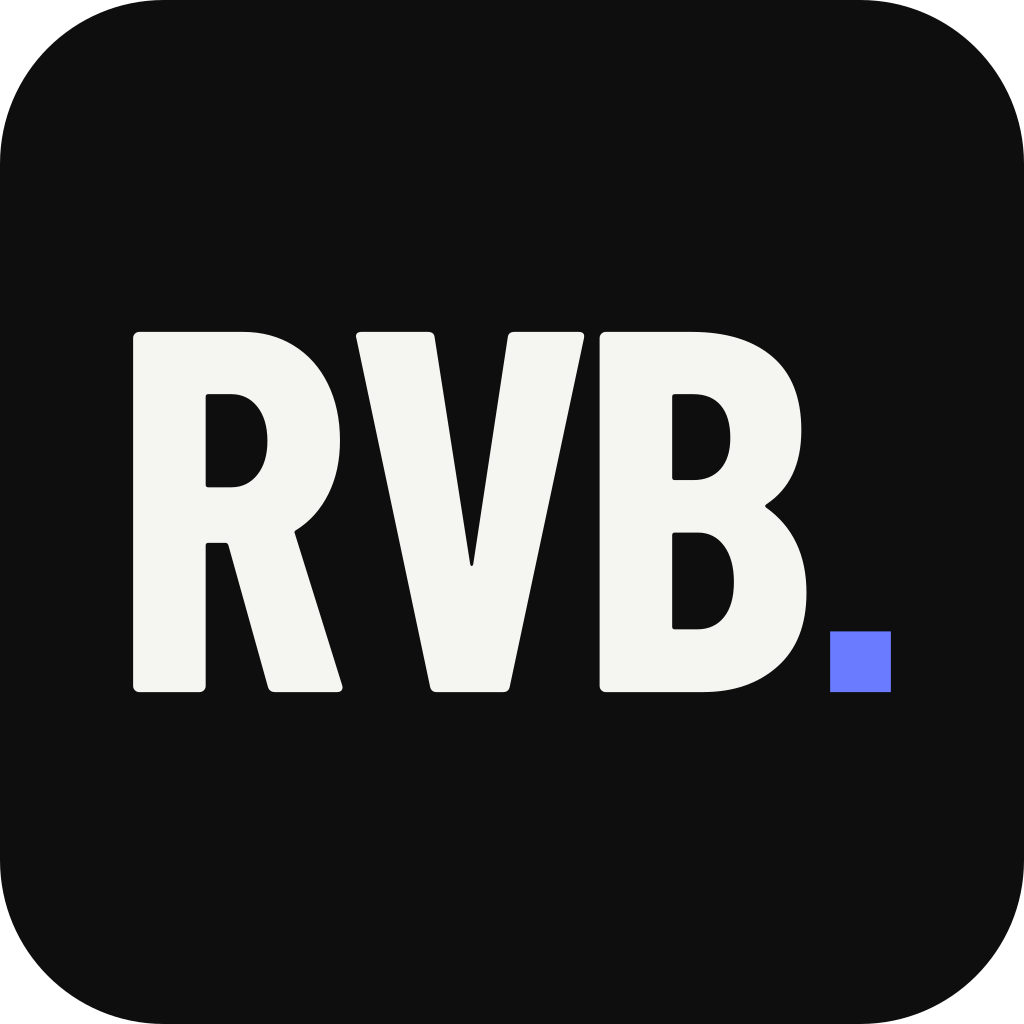
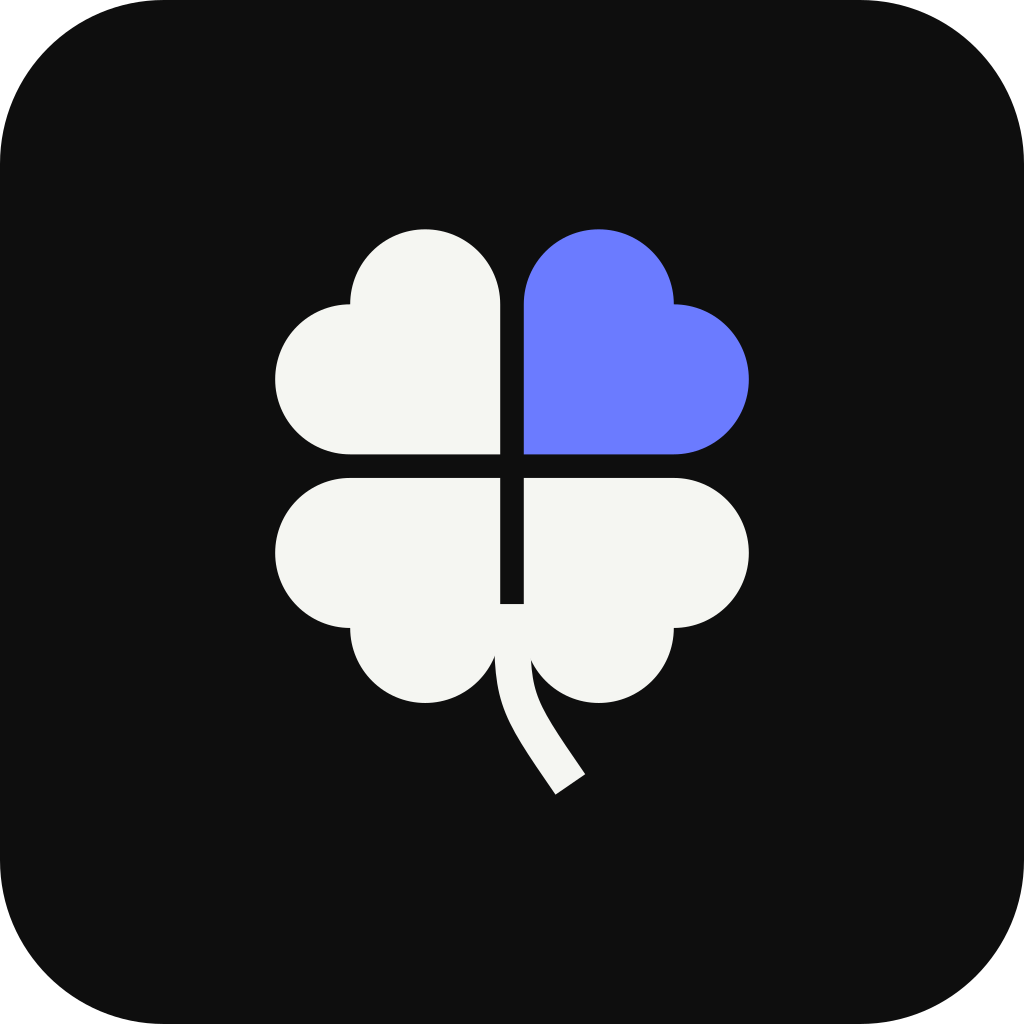
Swap the RVB monogram for the four-leaf clover family mark
Four hearts with their tips to the centre (a 2x2 block), one leaf in the
accent colour, short stem. Leaves follow currentColor and the accent leaf
follows the accent token, so it flips with the light theme. In the hero the
leaves bloom in one by one with the accent leaf last (disabled under
prefers-reduced-motion). Favicon, touch icon and standalone logo files updated.

Claude-Session: https://claude.ai/code/session_015TNaoAGR223QYtyVpvc2Xb

Changed region(s): [[0.125, 0.2188, 0.875, 0.7812]]

diff --git a/src/styles/global.css b/src/styles/global.css
@@ -56,7 +56,7 @@ img,svg{display:block;max-width:100%}
 .enav-bar{display:flex;align-items:center;justify-content:space-between;gap:16px;height:48px;padding:0 32px;background:rgba(0,0,0,.75);backdrop-filter:blur(8px);-webkit-backdrop-filter:blur(8px)}
 .enav a{text-decoration:none}
 .enav-logo{font:600 21px/1 var(--disp);letter-spacing:.005em;color:var(--bone);display:inline-flex;align-items:center;gap:12px}
-.rvb-mark{height:16px;width:auto;flex:none;color:var(--bone)}
+.rvb-mark{height:23px;width:auto;flex:none;color:var(--bone)}
 .enav-right{display:flex;align-items:center;gap:28px}
 .enav-link{font:500 12px/1 var(--mono);letter-spacing:.12em;text-transform:uppercase;color:#fff;transition:color .15s}
 .enav-link:hover,.enav-link[aria-current="page"]{color:var(--accent-hover)}
@@ -78,8 +78,14 @@ img,svg{display:block;max-width:100%}
 .hero .ctas{justify-content:center}
 @media (max-width:700px){.portrait{width:80px;height:80px}}
 /* hero mark (replaces the portrait there); the portrait now lives in About, on the light intro frame */
-.hero-in .rvb-mark{height:64px}
-@media (max-width:700px){.hero-in .rvb-mark{height:52px}}
+.hero-in .rvb-mark{height:84px}
+@media (max-width:700px){.hero-in .rvb-mark{height:68px}}
+/* hero clover: leaves bloom in from the centre one by one, the accent leaf last; the stem follows */
+.hero-in .rvb-mark .lf{transform-box:fill-box;transform-origin:50% 100%;opacity:0;animation:lf-in .7s cubic-bezier(.2,.8,.2,1) forwards;animation-delay:calc(.15s + var(--i) * .13s)}
+.hero-in .rvb-mark .stem{opacity:0;animation:lf-fade .5s ease-out .75s forwards}
+@keyframes lf-in{from{opacity:0;transform:scale(.15)}to{opacity:1;transform:none}}
+@keyframes lf-fade{to{opacity:1}}
+@media (prefers-reduced-motion:reduce){.hero-in .rvb-mark .lf,.hero-in .rvb-mark .stem{animation:none;opacity:1}}
 .hx-fa .portrait{width:clamp(72px,12vh,104px);height:clamp(72px,12vh,104px);margin-bottom:clamp(18px,3.4vh,30px);border-color:rgba(20,20,20,.16);background:transparent}
 
 /* hero dusk (components/Dusk.astro): one number, --dusk (0 at the top of the page, 1 at full dusk), drives everything.
